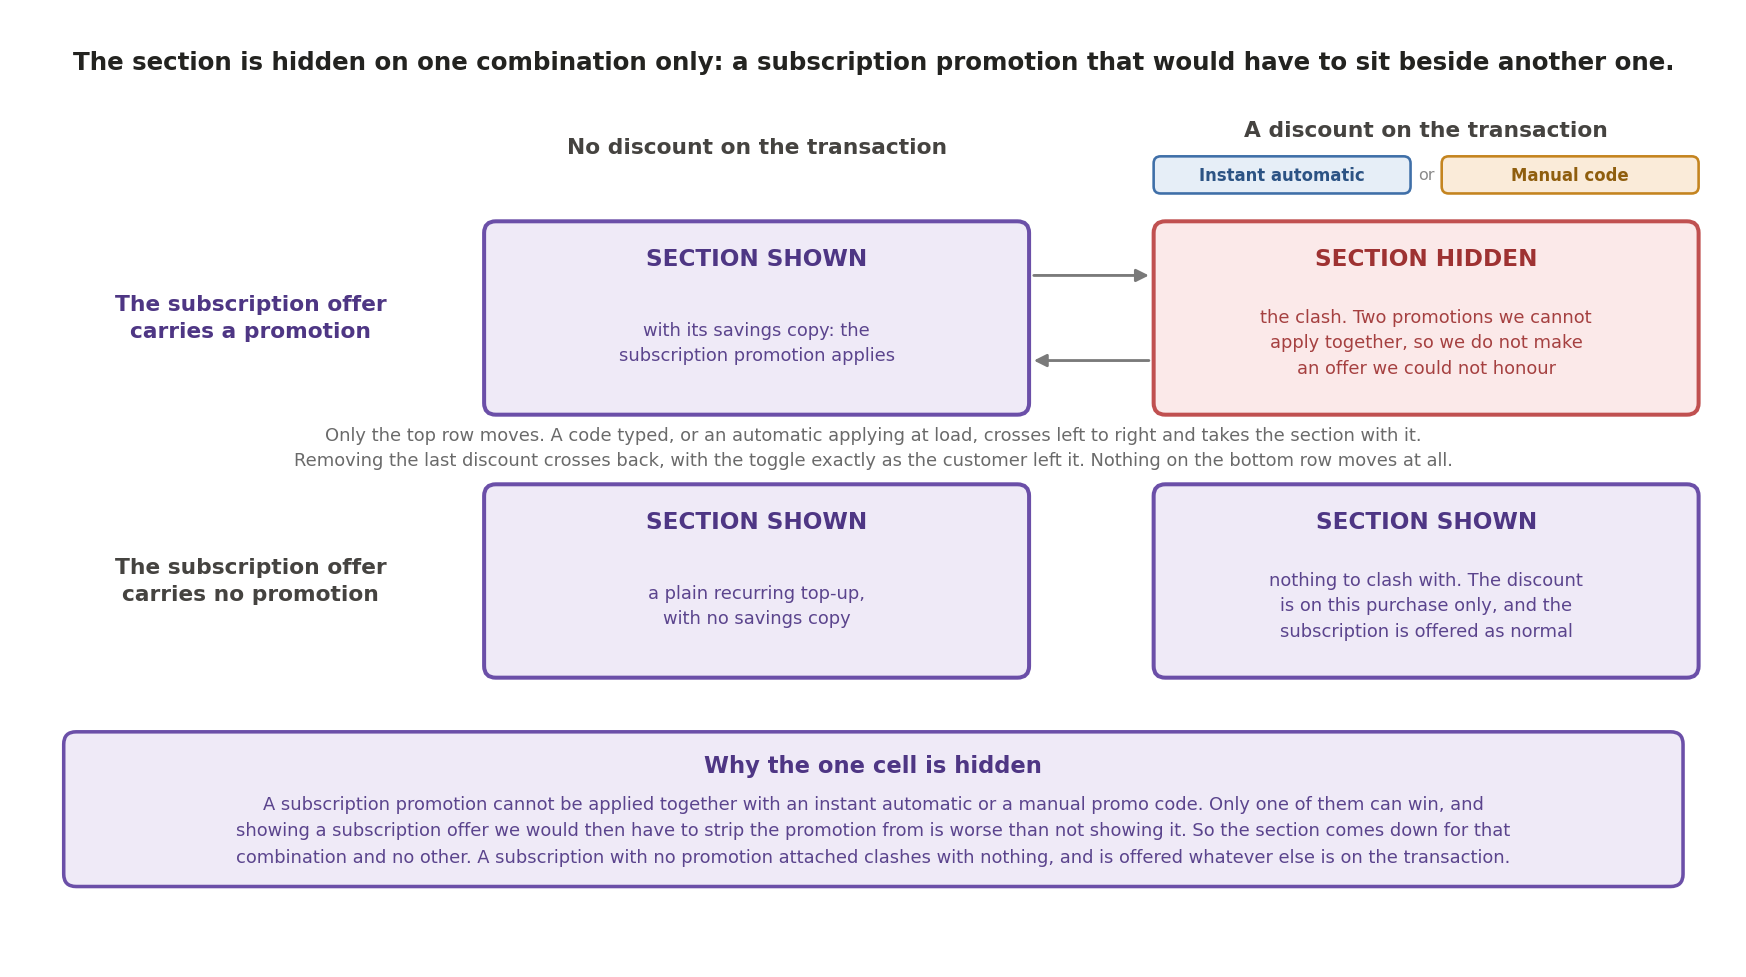
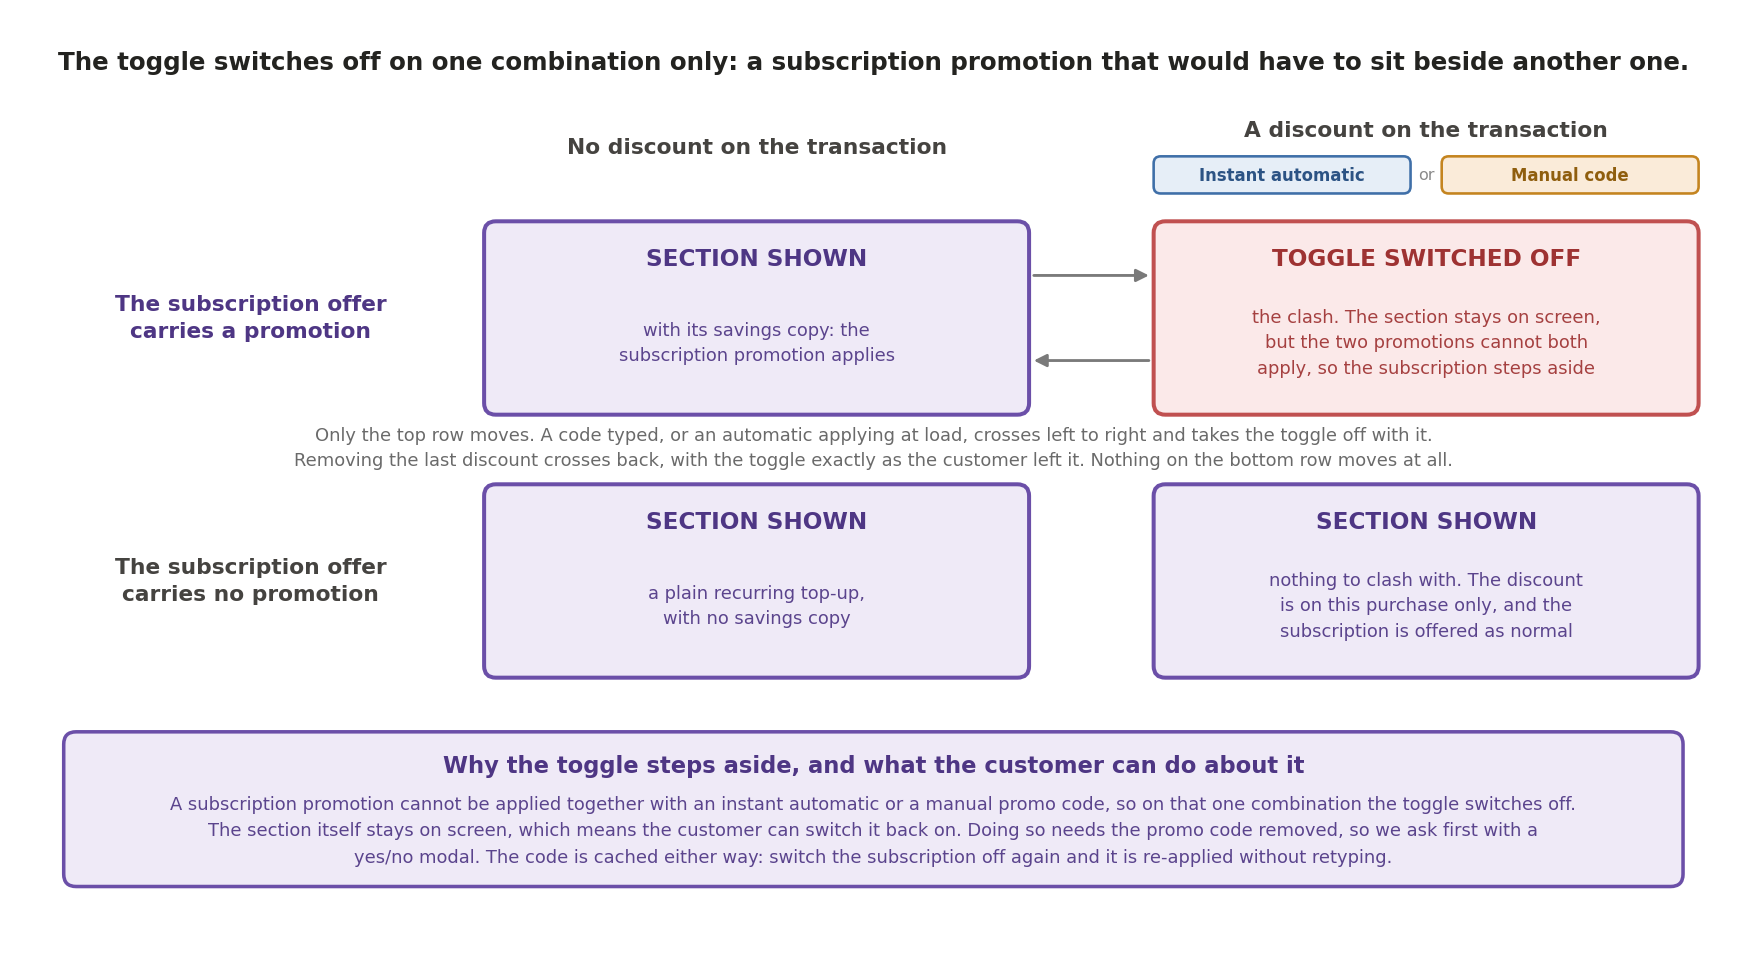
Switch the promotion spec from hiding the section to switching the toggle off
Per the DCS-5299 thread: on the clash the section stays on screen and only
the subscription toggle moves. That makes the customer able to switch it back
on, so the yes/no modal and the promo-code cache come back as rules 8 and 9,
with a fifth journey drawing them.

diff --git a/create_promo_interaction_onepager.py b/create_promo_interaction_onepager.py
@@ -7,16 +7,19 @@ types (instant automatic, manual, subscription), the two targets they can apply
 to (fee, top-up amount), and what the customer should see at every transition.
 
 Page 1 is the model, the rules, and the gate. Page 2 is the full combination
-matrix, four worked journeys, and the screen implications.
+matrix, five worked journeys, and the screen implications.
 
 The governing rule, from the DCS-5299 thread: a subscription promotion cannot
-be applied alongside an instant automatic or a manual promo code. The section
-is hidden exactly when that clash would arise, which needs both halves, a
+be applied alongside an instant automatic or a manual promo code. On that one
+combination the subscription toggle switches OFF, which needs both halves, a
 discount on the transaction AND a subscription offer carrying a promotion of
-its own. A discount on its own does not hide anything, because a subscription
-with no promotion attached clashes with nothing and stays on offer. The check
-follows the discount rather than the page load, so removing the last discount
-brings the section back with the toggle as the customer left it.
+its own. The section itself never leaves the screen. A discount on its own
+moves nothing, because a subscription with no promotion attached clashes with
+nothing.
+
+Because the section stays, the customer can switch the toggle back on. That
+needs the promo code removed, so a yes/no modal asks first, and the code is
+cached so switching the subscription off again re-applies it without retyping.
 
 """
 
@@ -59,11 +62,11 @@ IMAGES = {
 
 MATRIX = [
     ["Fee ↓  /  Amount →", "Automatic", "Manual", "Subscription", "None"],
-    ["Automatic", "✓  both apply", "✓  both apply", "✗  section hidden",
+    ["Automatic", "✓  both apply", "✓  both apply", "✗  toggle switched off",
      "✓  fee only"],
-    ["Manual", "✓  both apply", "✗  one code only", "✗  section hidden",
+    ["Manual", "✓  both apply", "✗  one code only", "✗  toggle switched off",
      "✓  fee only"],
-    ["Subscription", "✗  section hidden", "✗  section hidden", "N/A",
+    ["Subscription", "✗  toggle switched off", "✗  toggle switched off", "N/A",
      "✓  subscription only"],
     ["None", "✓  amount only", "✓  amount only", "✓  subscription only",
      "·  no promotion"],
@@ -105,13 +108,15 @@ BLOCKS = [
     ("b", ("Subscription",
            "attached to turning a one-off top-up into a recurring one. Violet. Read "
            "it in two halves: an offer carrying a promotion of its own cannot be "
-           "applied alongside an instant automatic or a manual code, so the section "
-           "comes down when they would clash; an offer with no promotion clashes "
-           "with nothing and stays on screen.")),
+           "applied alongside an instant automatic or a manual code, so the toggle "
+           "switches off when they would clash; an offer with no promotion clashes "
+           "with nothing and the toggle does not move. The section itself stays on "
+           "screen either way.")),
 
     ("h2", "The rules"),
-    ("p", "Seven rules cover every case. The first four are the slot mechanics; the "
-          "last three decide whether the subscription section is on screen at all."),
+    ("p", "Nine rules cover every case. The first four are the slot mechanics. The "
+          "next three decide whether the subscription toggle stays on. The last two "
+          "cover the customer switching it back on anyway."),
     ("b", ("One promotion per target",
            "the fee slot and the amount slot each hold a single promotion.")),
     ("b", ("Two promotions, but only on different targets",
@@ -125,22 +130,33 @@ BLOCKS = [
            "worth more. The customer decides, and we do not warn them off it.")),
     ("b", ("A subscription promotion cannot be applied alongside another promotion",
            "not with an instant automatic, not with a manual code. Only one of them "
-           "could win, so rather than show an offer we would have to strip the "
-           "promotion from, the section comes down. That combination hides it, and "
-           "no other.")),
+           "can win, so on that combination the subscription steps aside and the "
+           "toggle switches off. The section itself stays on screen. That "
+           "combination moves the toggle, and no other.")),
     ("b", ("A subscription with no promotion clashes with nothing",
            "it stays on offer whatever else the transaction carries, and the toggle "
-           "does not move. A discount on its own never hides the section.")),
+           "does not move. A discount on its own never switches anything off.")),
     ("b", ("The check follows the discount, not the page load",
-           "applying a code takes the section down when the subscription carries a "
-           "promotion, and switches off any subscription already set. Removing the "
-           "last discount brings it back, with the toggle exactly as they left "
-           "it.")),
+           "applying a code switches the toggle off when the subscription carries a "
+           "promotion. Removing the last discount switches it back to exactly where "
+           "the customer had it.")),
 
-    ("h2", "When the section comes down, and when it does not"),
-    ("p", "Two questions decide it, and the answer is a 2x2 with a single hidden "
+    ("b", ("Switching the toggle back on asks first",
+           "the section is still on screen, so the customer can insist. Because the "
+           "code and the subscription promotion cannot both stand, a yes/no modal "
+           "warns that the manual promo code will be removed. Yes subscribes and "
+           "drops the code. No changes nothing at all.")),
+
+    ("b", ("The promo code is cached, not discarded",
+           "once entered it is held for the rest of the transaction. If the "
+           "customer switches the subscription off again, the code is re-applied "
+           "automatically, so it never has to be typed twice.")),
+
+    ("h2", "When the toggle switches off, and when it does not"),
+    ("p", "Two questions decide it, and the answer is a 2x2 with a single moving "
           "cell. Both halves of the clash are required: a discount on the "
-          "transaction, and a subscription offer carrying a promotion of its own."),
+          "transaction, and a subscription offer carrying a promotion of its own. "
+          "The section stays on screen in all four."),
     ("img", "states"),
 
     ("pagebreak", ""),
@@ -153,39 +169,42 @@ BLOCKS = [
           "from the last row and the last column, where nothing else is on the "
           "transaction. A subscription with no promotion attached is not a "
           "promotion at all: it does not appear in this grid, and it stays on offer "
-          "in every cell."),
+          "in every cell. \"Toggle switched off\" is the starting position, not the "
+          "end of it: the customer can switch it back on, and the modal in rule 8 "
+          "is what happens when they do."),
 
-    ("h2", "Four journeys to design for"),
+    ("h2", "Five journeys to design for"),
     ("p", "The same two slots, tracked through each sequence of actions. Journeys 1 "
           "and 2 are the slot mechanics, which run the same way whatever the "
-          "subscription is doing. Journeys 3 and 4 are the pair to read closely: "
+          "subscription is doing. Journeys 3 and 4 are the pair to read together: "
           "the customer does exactly the same thing in both, and only the second "
-          "changes the screen."),
+          "moves the toggle. Journey 5 is the customer overruling us, and it is the "
+          "one that needs new screens."),
     ("img", "journeys"),
 
     ("h2", "What this changes on screen"),
-    ("b", ("The section comes down only on the clash",
+    ("b", ("The toggle moves only on the clash",
            "a discount on the transaction and a subscription offer carrying a "
-           "promotion. Either one on its own leaves the section exactly where it "
-           "was.")),
+           "promotion. Either one on its own leaves the toggle exactly where it "
+           "was, and the section is on screen throughout.")),
     ("b", ("A discount with no subscription promotion changes nothing",
-           "the section stays on screen, the toggle stays where the customer put "
-           "it, and there is no half-available state in between to design.")),
-    ("b", ("On the clash, the subscription goes with the section",
-           "the customer asked for neither, so this is the moment the screen has to "
-           "say something rather than let both disappear quietly.")),
-    ("b", ("Removing the last discount brings both back",
-           "the section returns and the toggle sits exactly where the customer left "
-           "it, subscribed again if that is what they had chosen. Another change "
-           "they did not ask for, so it should be as visible as the first.")),
+           "the toggle stays where the customer put it, and there is no "
+           "half-available state in between to design.")),
+    ("b", ("Switching the subscription off is a change they did not ask for",
+           "so it needs saying on screen rather than letting the toggle move "
+           "quietly. Same when removing the last discount switches it back.")),
+    ("b", ("The modal is the one genuinely new screen",
+           "a yes/no confirmation, shown when the customer switches the toggle back "
+           "on while a code is applied. It has to name the code being removed, "
+           "because that is the thing they lose. No must leave the transaction "
+           "untouched.")),
+    ("b", ("The cache should be invisible but findable",
+           "when a cached code is re-applied on switching the subscription off, the "
+           "customer did not retype it, so the screen should show it returning "
+           "rather than have it appear silently in the price breakdown.")),
     ("b", ("The applied code still needs an ✕",
            "it is the only route back to the automatic promotion it displaced, and "
-           "on the clash the only route back to the subscription offer.")),
-    ("b", ("Two earlier asks can be dropped",
-           "the yes/no confirmation is unreachable, since the customer can never "
-           "turn a promoted subscription on while a code is applied, and the "
-           "promo-code cache is unnecessary, since nothing now removes the "
-           "code.")),
+           "the only way to clear a cached code the customer no longer wants.")),
 ]
 
 SIZE_MAP = {"h1": 15, "h2": 10.5, "p": 9, "b": 9, "cap": 7.5}

diff --git a/generate_promo_interaction_diagrams.py b/generate_promo_interaction_diagrams.py
@@ -14,21 +14,19 @@ for them: a manual code always wins the slot it lands on, and ✕ restores the
 automatic it displaced.
 
 THE CLASH. A subscription promotion cannot be applied alongside an instant
-automatic or a manual promo code. We do not show an offer we cannot honour,
-so the subscription section is hidden exactly when that clash would arise:
-a discount on the transaction AND a subscription offer carrying a promotion
-of its own. Both halves are required. A discount on its own does not hide the
-section, because a subscription with no promotion attached clashes with
-nothing and stays on offer.
+automatic or a manual promo code. The section stays on screen either way: what
+changes is the toggle. It switches OFF exactly when that clash would arise, a
+discount on the transaction AND a subscription offer carrying a promotion of
+its own. Both halves are required. A discount on its own moves nothing.
 
-That makes it a 2x2 with one hidden cell, which is what figure 1 draws. The
-gate follows the discount rather than the page load, so removing the last
-discount brings the section back with the toggle exactly as the customer left
-it.
+Because the section stays, the customer can switch the toggle back on, and
+that is where the confirmation belongs: a yes/no modal warning that the manual
+promo code will be removed. The code is cached, so switching the subscription
+off again re-applies it without retyping.
 
 Colour language is fixed and must match the doc:
   Automatic = blue      Manual = amber      Subscription = violet
-  Section hidden = red
+  Toggle switched off = red
 
 Visual language matches generate_subscription_flow_diagrams.py.
 """
@@ -125,7 +123,7 @@ def fig_flow():
     fig, ax = canvas(H)
 
     ax.text(XMAX / 2, 11.6,
-            "The section is hidden on one combination only: a subscription "
+            "The toggle switches off on one combination only: a subscription "
             "promotion that would have to sit beside another one.",
             ha="center", va="center", fontsize=10.4, fontweight="bold",
             color="#232320", zorder=5)
@@ -157,9 +155,9 @@ def fig_flow():
     cell(ax, c1, r1, cw, ch, "SECTION SHOWN",
          "with its savings copy: the\nsubscription promotion applies",
          VIOLET)
-    cell(ax, c2, r1, cw, ch, "SECTION HIDDEN",
-         "the clash. Two promotions we cannot\napply together, so we do not make\n"
-         "an offer we could not honour",
+    cell(ax, c2, r1, cw, ch, "TOGGLE SWITCHED OFF",
+         "the clash. The section stays on screen,\nbut the two promotions cannot both\n"
+         "apply, so the subscription steps aside",
          RED)
     cell(ax, c1, r2, cw, ch, "SECTION SHOWN",
          "a plain recurring top-up,\nwith no savings copy",
@@ -174,7 +172,7 @@ def fig_flow():
     arrow(ax, (c2 - cw / 2, r1 - 0.55), (c1 + cw / 2, r1 - 0.55))
     ax.text(XMAX / 2, 6.62,
             "Only the top row moves. A code typed, or an automatic applying at "
-            "load, crosses left to right and takes the section with it.\n"
+            "load, crosses left to right and takes the toggle off with it.\n"
             "Removing the last discount crosses back, with the toggle exactly as "
             "the customer left it. Nothing on the bottom row moves at all.",
             ha="center", va="center", fontsize=7.6, color="#6A6A6A", zorder=5,
@@ -186,17 +184,17 @@ def fig_flow():
         (0.6, wy - wh / 2), XMAX - 1.2, wh,
         boxstyle="round,pad=0,rounding_size=0.16", linewidth=1.5,
         facecolor=VIOLET["fill"], edgecolor=VIOLET["edge"], zorder=3))
-    ax.text(XMAX / 2, wy + 0.56, "Why the one cell is hidden",
+    ax.text(XMAX / 2, wy + 0.56, "Why the toggle steps aside, and what the customer can do about it",
             ha="center", va="center", fontsize=9.6, fontweight="bold",
             color=VIOLET["text"], zorder=5)
     ax.text(XMAX / 2, wy - 0.28,
             "A subscription promotion cannot be applied together with an instant "
-            "automatic or a manual promo code. Only one of them can win, and\n"
-            "showing a subscription offer we would then have to strip the "
-            "promotion from is worse than not showing it. So the section comes "
-            "down for that\ncombination and no other. A subscription with no "
-            "promotion attached clashes with nothing, and is offered whatever "
-            "else is on the transaction.",
+            "automatic or a manual promo code, so on that one combination the "
+            "toggle switches off.\nThe section itself stays on screen, which means "
+            "the customer can switch it back on. Doing so needs the promo code "
+            "removed, so we ask first with a\nyes/no modal. The code is cached "
+            "either way: switch the subscription off again and it is re-applied "
+            "without retyping.",
             ha="center", va="center", fontsize=7.6, color=VIOLET["text"],
             alpha=0.92, zorder=5, linespacing=1.6)
     return fig
@@ -217,6 +215,30 @@ def statuspill(ax, cx, cy, text, style):
         facecolor=style["fill"], edgecolor=style["edge"], zorder=3))
     ax.text(cx, cy - CARD_H / 2 - 0.33, text, ha="center", va="center",
             fontsize=6.6, fontweight="bold", color=style["text"], zorder=4)
+
+
+def modalcard(ax, cx, cy, tag=None):
+    """The yes/no confirmation shown when the customer switches the toggle on."""
+    ax.add_patch(FancyBboxPatch(
+        (cx - CARD_W / 2, cy - CARD_H / 2), CARD_W, CARD_H,
+        boxstyle="round,pad=0,rounding_size=0.12", linewidth=1.6,
+        facecolor=AMBER["fill"], edgecolor=AMBER["edge"], zorder=3))
+    if tag:
+        ax.text(cx, cy + CARD_H / 2 + 0.26, tag, ha="center", va="center",
+                fontsize=7.0, fontweight="bold", color=AMBER["text"], zorder=5)
+    ax.text(cx, cy + 0.52, "REMOVE YOUR\nPROMO CODE?", ha="center", va="center",
+            fontsize=7.2, fontweight="bold", color=AMBER["text"], zorder=4,
+            linespacing=1.3)
+    ax.text(cx, cy - 0.14, "subscribing means giving\nup the code you applied",
+            ha="center", va="center", fontsize=6.4, color=AMBER["text"],
+            alpha=0.9, zorder=4, linespacing=1.35)
+    for dx, lab in ((-0.62, "No"), (0.62, "Yes")):
+        ax.add_patch(FancyBboxPatch(
+            (cx + dx - 0.46, cy - 0.82), 0.92, 0.36,
+            boxstyle="round,pad=0,rounding_size=0.08", linewidth=1.1,
+            facecolor="#FFFFFF", edgecolor=AMBER["edge"], zorder=4))
+        ax.text(cx + dx, cy - 0.64, lab, ha="center", va="center", fontsize=6.8,
+                fontweight="bold", color=AMBER["text"], zorder=5)
 
 
 def slotcard(ax, cx, cy, fee=None, amount=None, sub=False, tag=None, tagcol=None,
@@ -276,18 +298,18 @@ def note(ax, cy, text):
             color="#7A7A7A", linespacing=1.45)
 
 
-HIDDEN = ("section hidden", RED)
+TOGGLE_OFF = ("toggle switched OFF", RED)
 SHOWN = ("section shown", VIOLET)
 SUBBED = ("shown · subscribed", VIOLET)
 
 
 def fig_examples():
-    H = 12.9
+    H = 16.1
     fig, ax = canvas(H)
 
     x1, x2, x3 = 6.3, 11.2, 16.1
     gap = CARD_W / 2 + 0.14
-    ra, rb, rc, rd = 11.6, 8.5, 5.4, 2.3
+    ra, rb, rc, rd, re_ = 14.7, 11.6, 8.5, 5.4, 2.3
 
     def step(cy, xa, xb, label):
         arrow(ax, (xa + gap, cy), (xb - gap, cy), label=label, ldy=0.50, lsize=7.0)
@@ -319,17 +341,28 @@ def fig_examples():
     slotcard(ax, x3, rc, status=SHOWN)
     note(ax, rc, "Nothing clashes, so nothing\nmoves. The section stays on\nscreen and the toggle stays\nwhere the customer left it.")
 
-    # --- 4: the one case that moves -----------------------------------------
+    # --- 4: the clash. The section stays, the toggle steps aside ------------
     rowlabel(ax, rd, "4 · Code applied ·\nWITH subscription promo",
-             "the only case where the\nscreen changes")
+             "the toggle steps aside,\nthe section does not")
     slotcard(ax, x1, rd, sub=True, status=SHOWN)
     step(rd, x1, x2, "enter a manual\nFEE code")
-    slotcard(ax, x2, rd, fee="manual", status=HIDDEN,
-             tag="the offer is withdrawn", tagcol=RED)
+    slotcard(ax, x2, rd, fee="manual", status=TOGGLE_OFF,
+             tag="subscription switched off", tagcol=RED)
     step(rd, x2, x3, "tap ✕ on\nthe code")
     slotcard(ax, x3, rd, sub=True, status=SHOWN,
-             tag="back, toggle as they left it", tagcol=VIOLET)
-    note(ax, rd, "The offer and the code cannot\nboth stand. The section goes,\nand any subscription already\nset goes with it, then returns.")
+             tag="toggle back as they left it", tagcol=VIOLET)
+    note(ax, rd, "Both cannot apply, so the\nsubscription gives way. The\nsection never leaves the\nscreen, only the toggle moves.")
+
+    # --- 5: the customer insists. Modal, then the cache ---------------------
+    rowlabel(ax, re_, "5 · Toggling back on ·\nthe modal and the cache",
+             "the customer chooses the\nsubscription over the code")
+    slotcard(ax, x1, re_, fee="manual", status=TOGGLE_OFF)
+    step(re_, x1, x2, "tap the toggle\nON")
+    modalcard(ax, x2, re_, tag="ask before taking anything")
+    step(re_, x2, x3, "Yes")
+    slotcard(ax, x3, re_, sub=True, status=SHOWN,
+             tag="code removed, held in cache", tagcol=AMBER)
+    note(ax, re_, "No leaves everything alone.\nYes drops the code, but we\ncache it: switch the\nsubscription off and it is\nre-applied without retyping.")
 
     legend_chips(ax, 0.35)
     return fig
